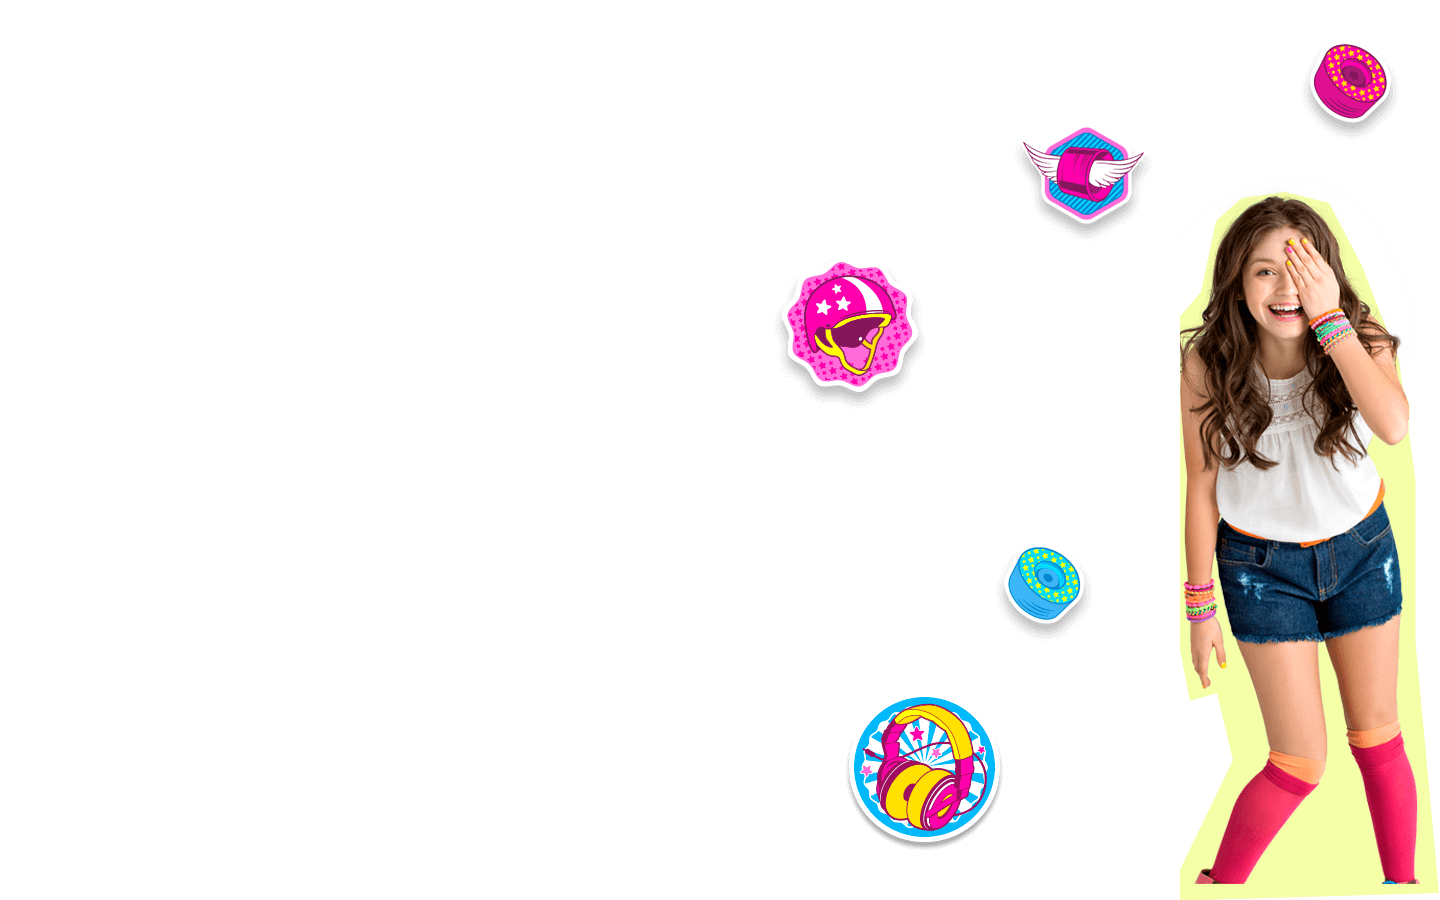
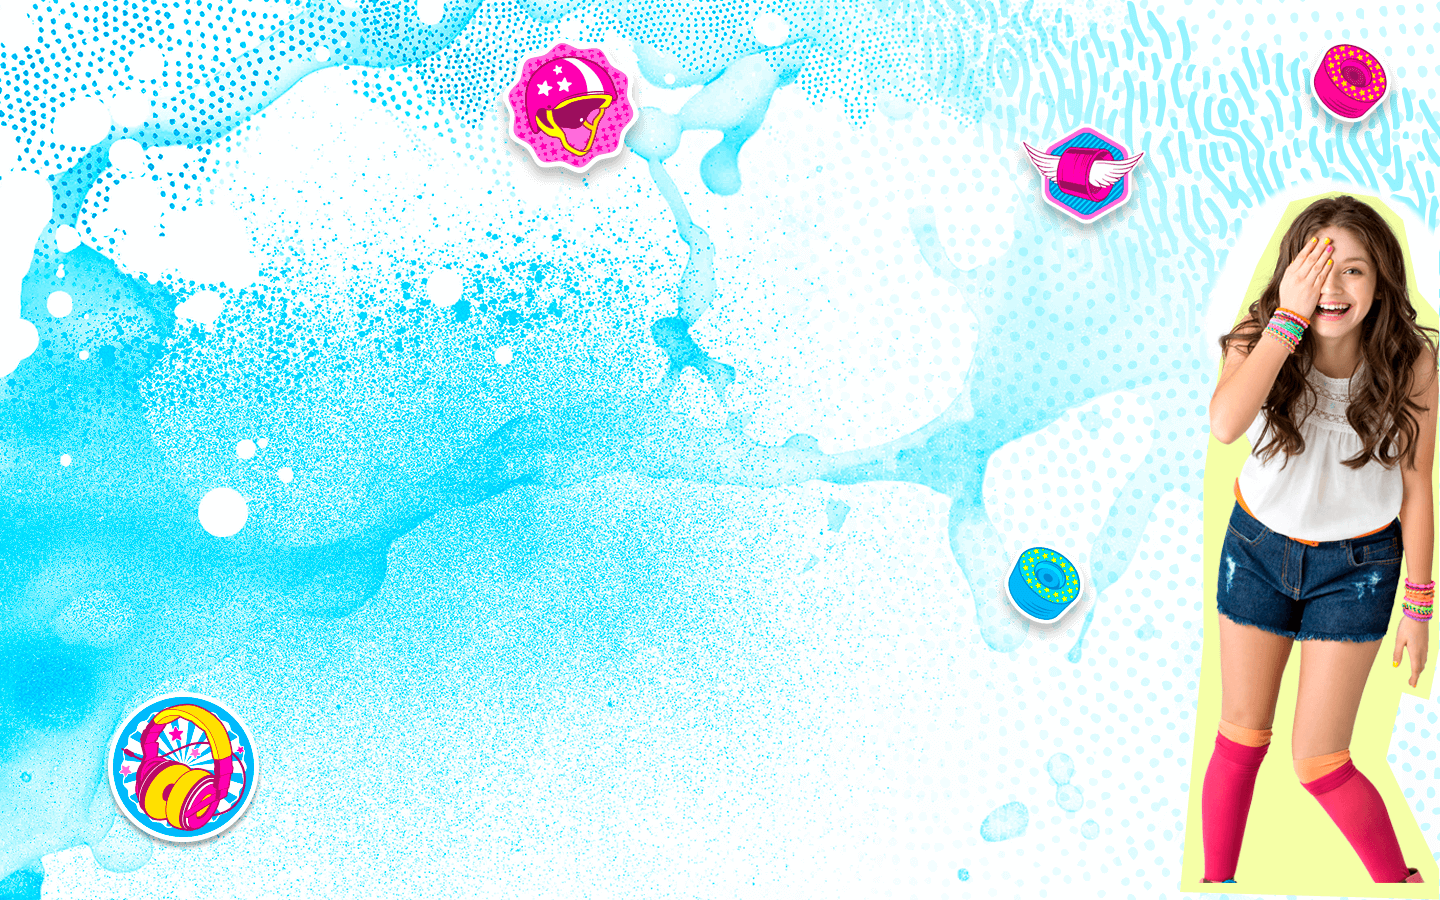
Finishes Soy Luna project slider

diff --git a/app/sass/pages/_home.sass b/app/sass/pages/_home.sass
@@ -27,7 +27,7 @@ html
   bottom: 60px
   left: 50%
   position: absolute
-  text-shadow: 0 0 50px rgba(0, 0, 0, 0.2)
+  text-shadow: 0 0 50px rgba($black, 0.2)
   transform: translateX(-50%)
   z-index: -2
 
@@ -45,15 +45,20 @@ html
 
   &:hover
 
-    > .soy-luna
-        background-blend-mode: multiply
-        transition: all 0.3s ease
-
     > section
     
-      > div
+      > .project-text
         transform: translateX(+50px)
         transition: all 0.3s ease
+
+      > .project-container
+        background-blend-mode: overlay
+        transform: translateX(-45%)
+        transition: all 0.3s ease
+
+        > .project-cover
+          transform: translateX(0vw)
+          transition: all 0.3s ease
 
 .project
   @include flex(flex-start, row, center)
@@ -73,11 +78,25 @@ html
 .project-year
   @include font-styles($size-a, $regular, $size-b, $white)
 
+.project-container
+  @include flex(flex-end, row, center)
+  @include image("images/soy-luna-cover-background.png")
+  background-color: #222
+  background-blend-mode: lighten
+  box-shadow: 0 0 50px rgba($black, 0.2)
+  height: 80%
+  left: 50%
+  position: absolute
+  transform: translateX(-50%)
+  transition: all 0.3s ease
+  width: 80%
+  z-index: -1
+
 .project-cover
-  height: 700px
+  height: 80vh
   position: relative
-  transform: translateX(+50vw)
-  width: 700px
+  transform: translateX(+100vw)
+  width: 80vh
 
 .project-device
   height: 100%
@@ -90,11 +109,6 @@ html
   position: absolute
   width: 100%
   z-index: 1
-
-.soy-luna
-  @include image("images/soy-luna-cover-background.png")
-  background-blend-mode: overlay
-  transition: all 0.3s ease
 
 .bankly
   margin: 0

diff --git a/app/assets/index.html b/app/assets/index.html
@@ -52,14 +52,16 @@
     <p class="p2">I'm a UI/UX Designer with 10+ years experience currently working at <a href="">DeepX</a> helping US companies grow their business through digital products.</p>
   </section>
   <a class="project-text--animation" href="/project/soy-luna">
-    <section class="project soy-luna">
+    <section class="project">
       <div class="project-text">
         <h2>Soy Luna Sticker Game App - Official</h2>
         <p class="project-year">2017</p>
       </div>
-      <div class="project-cover">
-        <img class="project-device" src="images/soy-luna-cover.gif" srcset="soy-luna-cover@2x.gif 2x">
-        <img class="project-shadow" src="images/iphonex-cover-shadow.png" srcset="iphonex-cover-shadow@2x.png 2x">
+      <div class="project-container">
+        <div class="project-cover">
+          <img class="project-device" src="images/soy-luna-cover.gif" srcset="soy-luna-cover@2x.gif 2x">
+          <img class="project-shadow" src="images/iphonex-cover-shadow.png" srcset="iphonex-cover-shadow@2x.png 2x">
+        </div>
       </div>
     </section>
   </a>

diff --git a/app/sass/helpers/_variables.sass b/app/sass/helpers/_variables.sass
@@ -20,3 +20,4 @@ $white: #ffffff
 $coal: #343434
 $gray: #989898
 $mist: #fdfdfd
+$black: #000000
